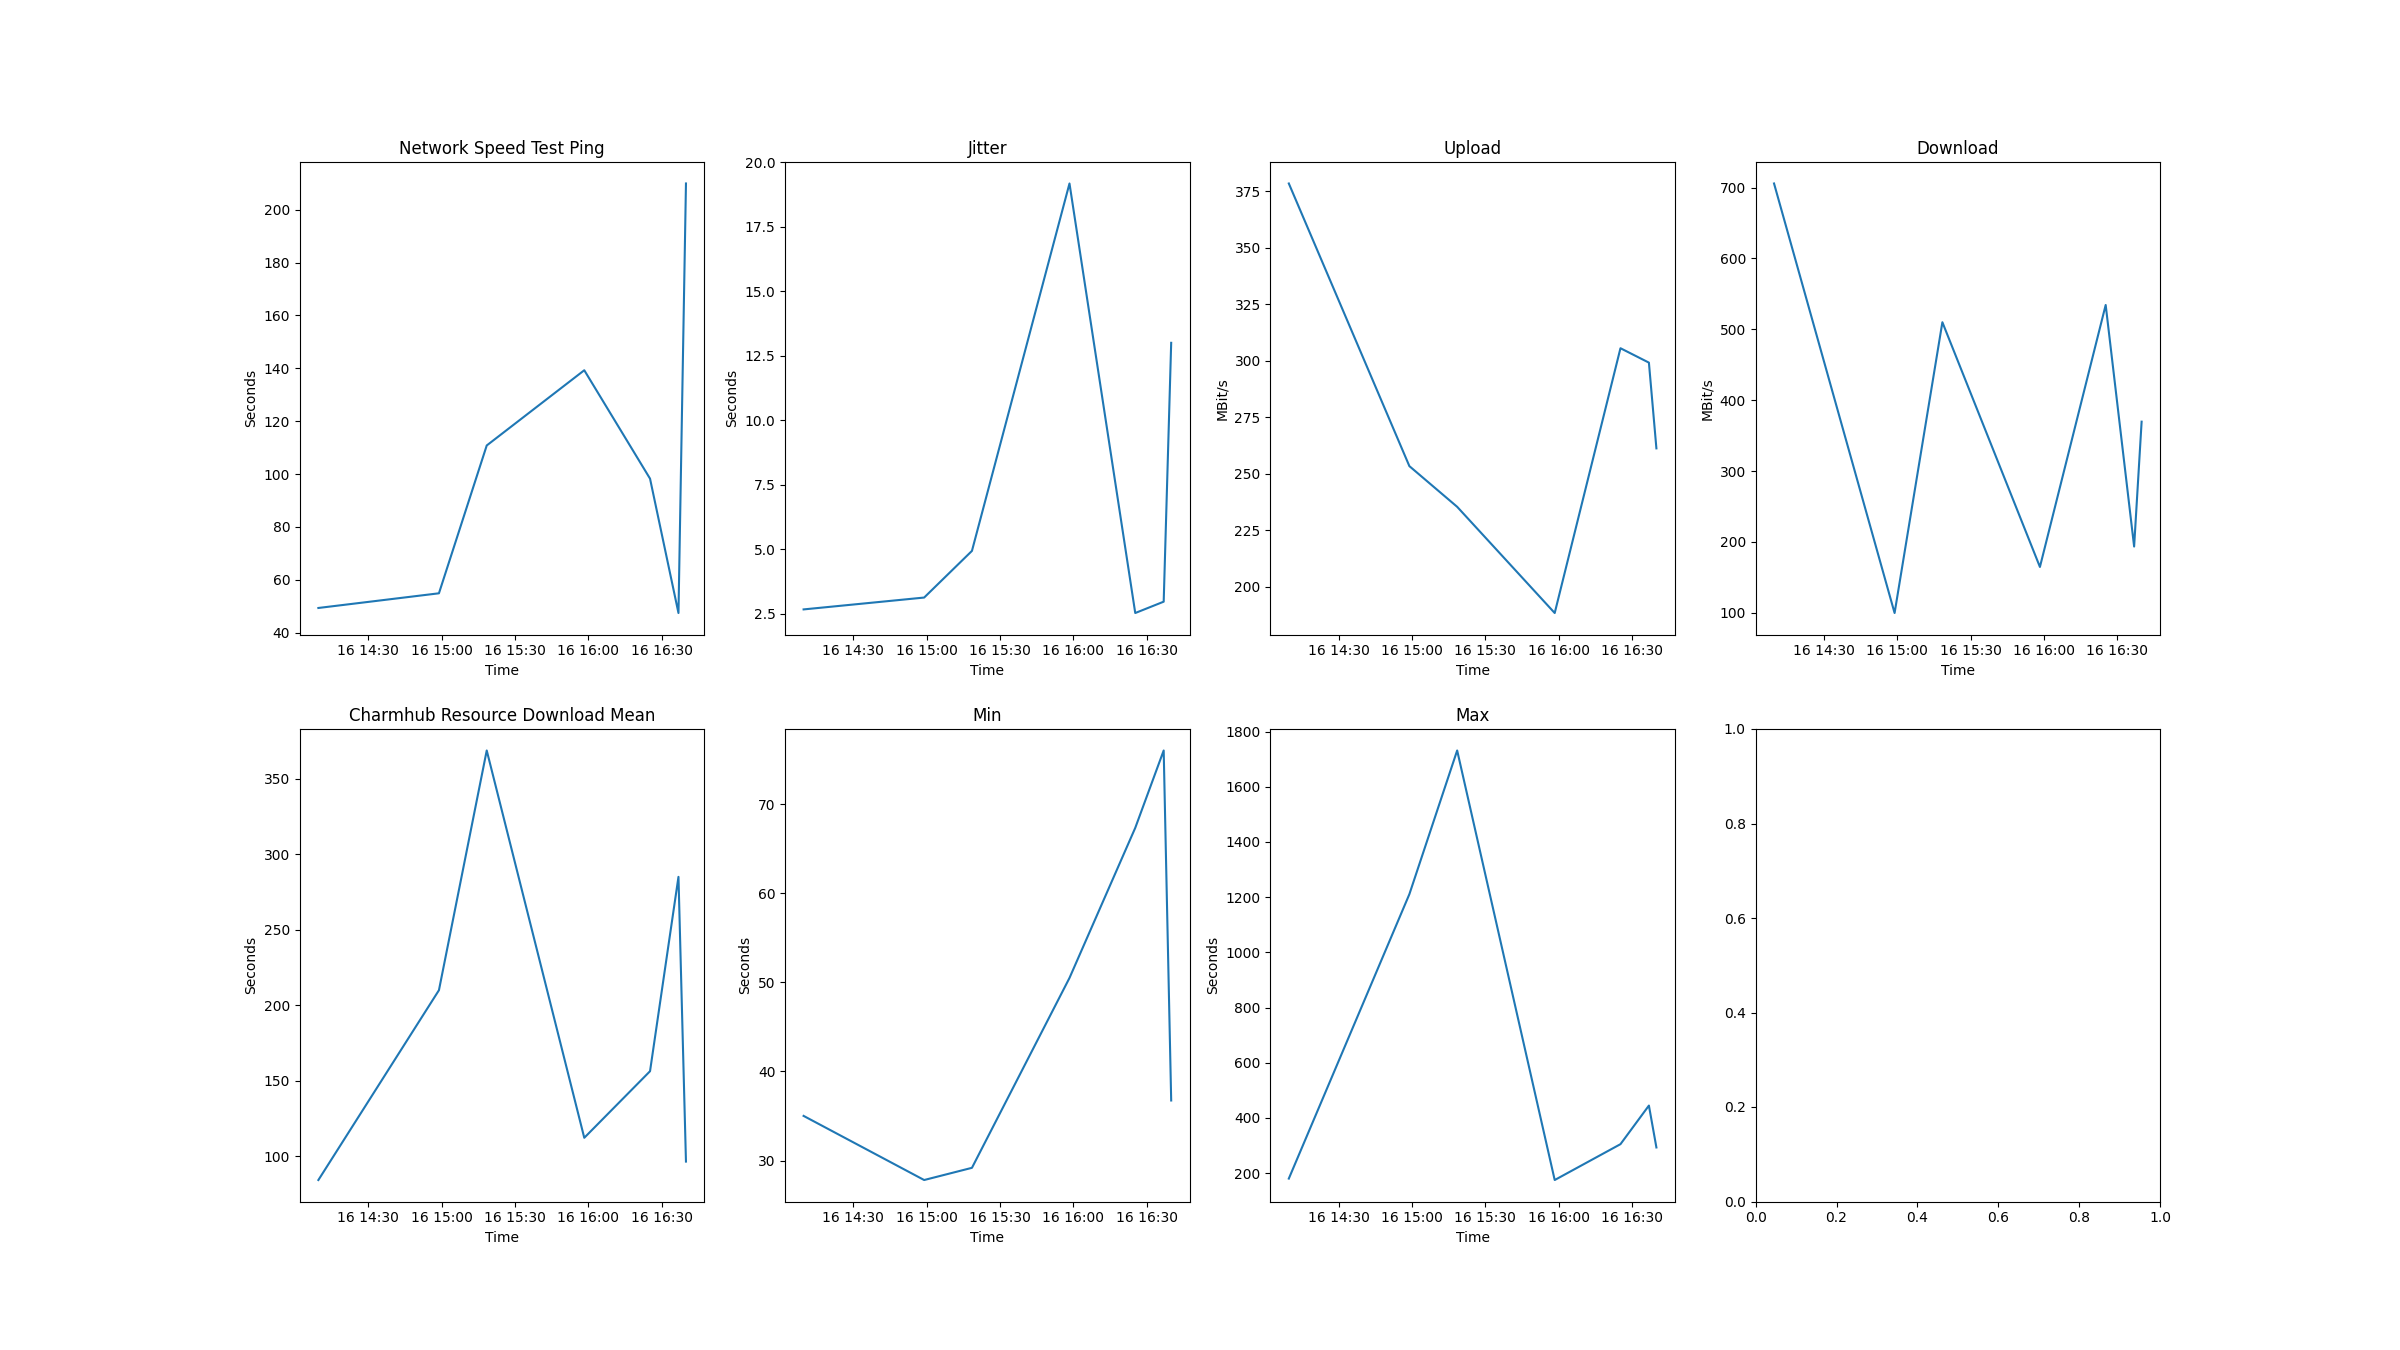
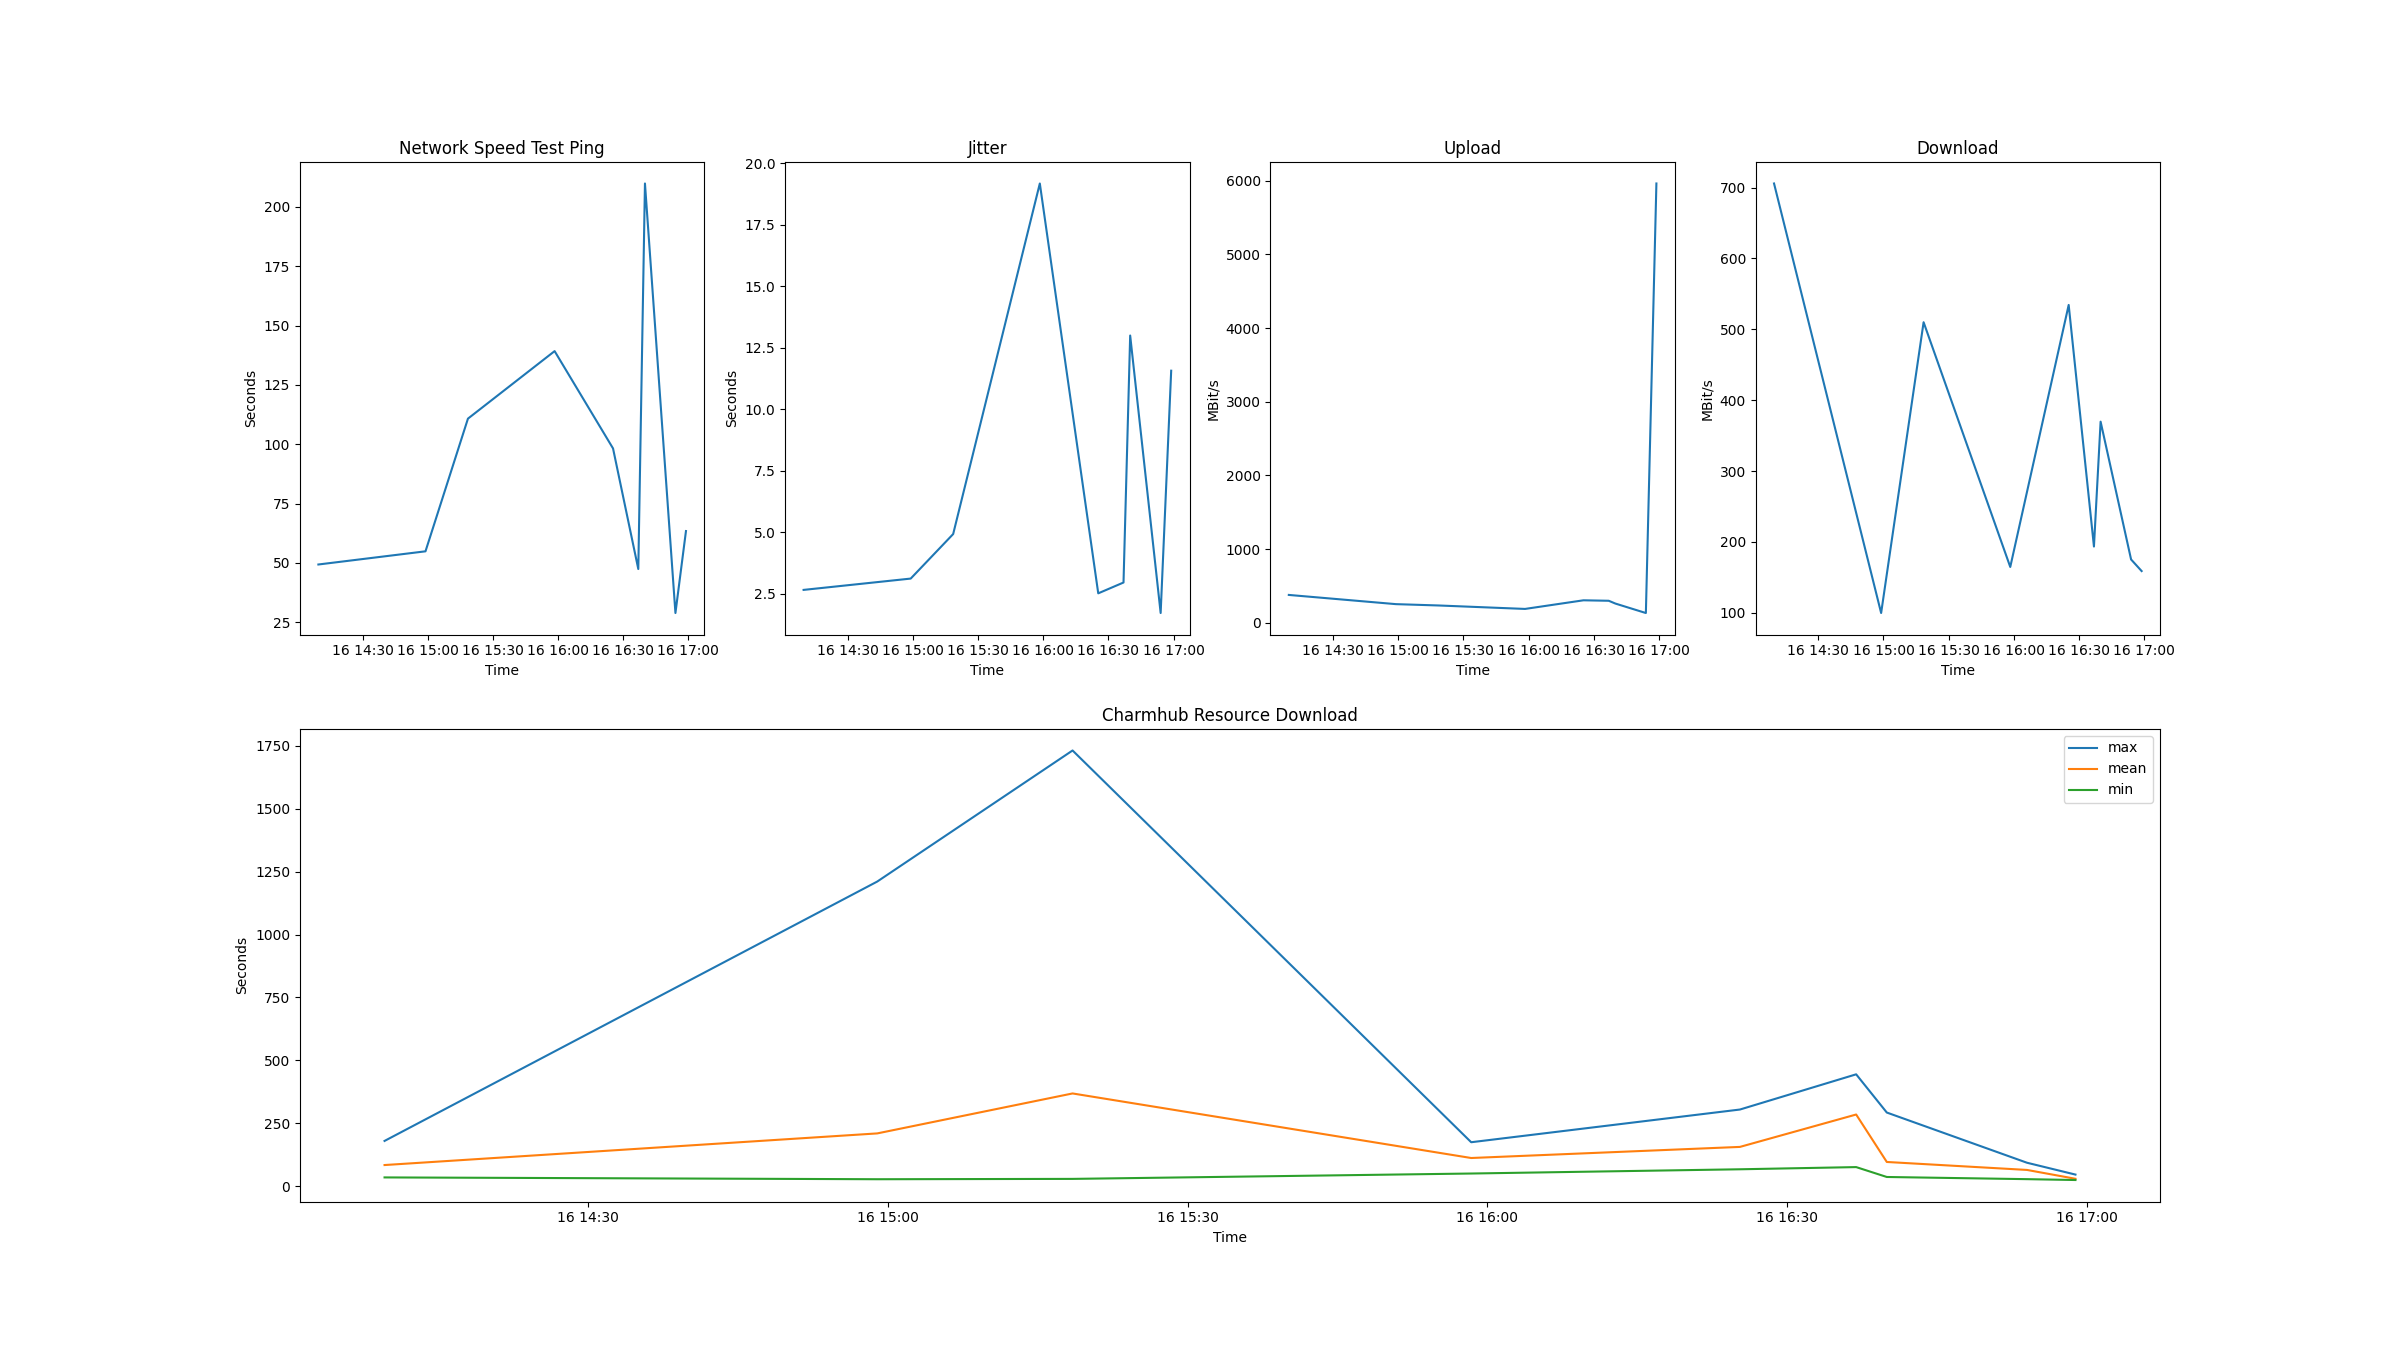
deploy: 9af85f7531f962388c655955a8288d6034af9e91

diff --git a/create_chart.py b/create_chart.py
@@ -9,33 +9,33 @@ my_data = pd.read_csv(f"results/v1/{run_name}.csv")
 my_data["time"] = pd.to_datetime(my_data["time"])
 
 plt.subplot(2, 4, 1)
-plt.plot(my_data[time], my_data["network speed test ping (s)"])
+plt.plot(my_data["time"], my_data["network speed test ping (s)"])
 plt.title("Network Speed Test Ping")
 plt.xlabel("Time")
 plt.ylabel("Seconds")
 
 plt.subplot(2, 4, 2)
-plt.plot(my_data[time], my_data["jitter (s)"])
+plt.plot(my_data["time"], my_data["jitter (s)"])
 plt.title("Jitter")
 plt.xlabel("Time")
 plt.ylabel("Seconds")
 
 plt.subplot(2, 4, 3)
-plt.plot(my_data[time], my_data["upload (bit/s)"])
+plt.plot(my_data["time"], my_data["upload (bit/s)"])
 plt.title("Upload")
 plt.xlabel("Time")
 plt.ylabel("MBit/s")
 
 plt.subplot(2, 4, 4)
-plt.plot(my_data[time], my_data["download (bit/s)"])
+plt.plot(my_data["time"], my_data["download (bit/s)"])
 plt.title("Download")
 plt.xlabel("Time")
 plt.ylabel("MBit/s")
 
 plt.subplot(2, 1, 2)
-plt.plot(my_data[time], my_data["max (s)"], label = "max")
-plt.plot(my_data[time], my_data["charmhub resource download mean (s)"], label = "mean")
-plt.plot(my_data[time], my_data["min (s)"], label = "min")
+plt.plot(my_data["time"], my_data["max (s)"], label = "max")
+plt.plot(my_data["time"], my_data["charmhub resource download mean (s)"], label = "mean")
+plt.plot(my_data["time"], my_data["min (s)"], label = "min")
 plt.legend()
 plt.title("Charmhub Resource Download")
 plt.xlabel("Time")
